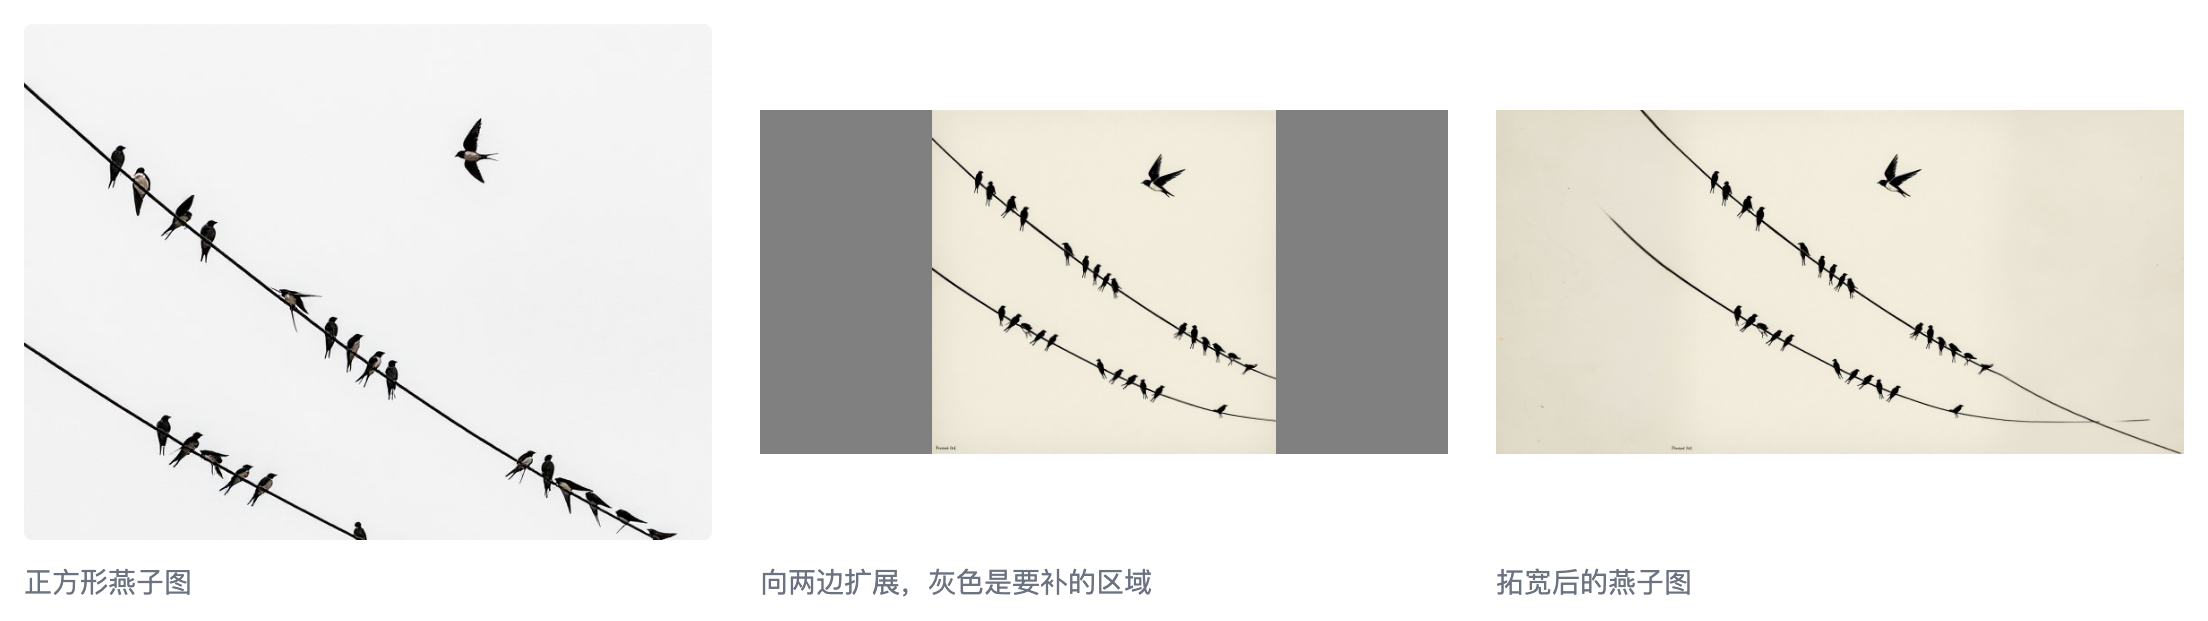
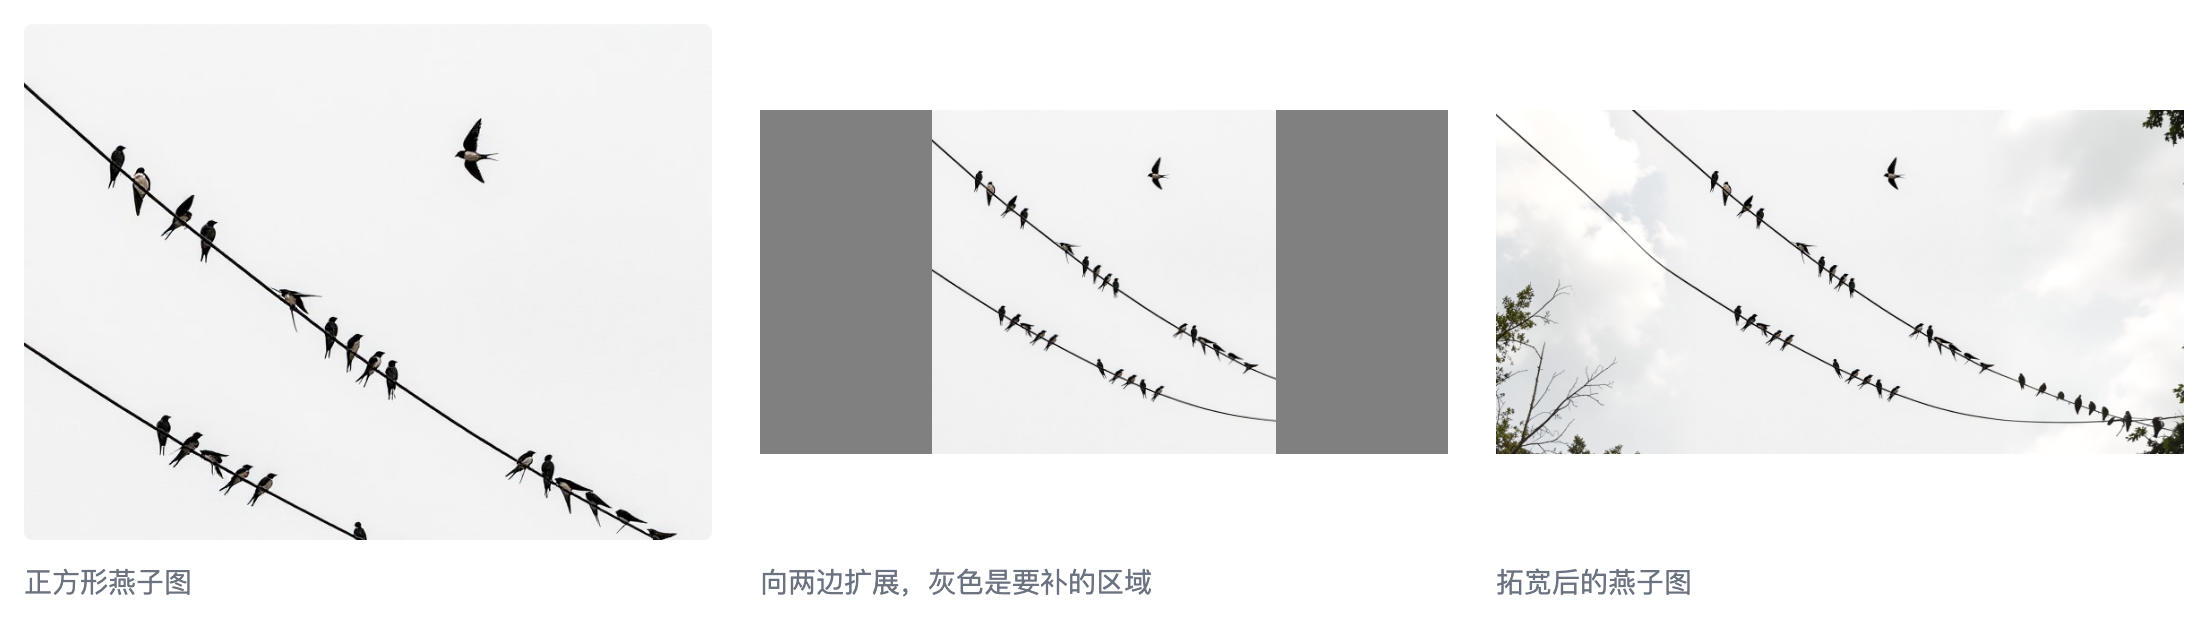
配图: 方形燕子图网格的遮罩和结果换回 outpaint-swift 那一组
上一版拿了 both-mask.png / both-out.png，那是另一次生成，画风跟左边
的原图对不上。outpaint-swift 里的 pixcmp_00013 才是这张原图的两侧
遮罩，img_00122 才是它跑出来的结果，三张现在是同一次的连续步骤。

both-mask.png / both-out.png 不再被引用，从版本库里移除。

diff --git a/articles/2026-09-26-enlarge-image-without-painting/swallow-outpaint-image-grid.source.html b/articles/2026-09-26-enlarge-image-without-painting/swallow-outpaint-image-grid.source.html
@@ -17,13 +17,13 @@
     </figure>
     <figure style="margin: 0; display: flex; flex-direction: column; gap: 10px;">
       <div style="width: 100%; aspect-ratio: 4/3; border-radius: 4px; overflow: hidden;">
-        <img src="file:///Users/husongtao/Projects/newsletters/articles/2026-09-26-enlarge-image-without-painting/both-mask.png" style="width: 100%; height: 100%; object-fit: contain; object-position: center; display: block;">
+        <img src="file:///Users/husongtao/Projects/newsletters/articles/2026-09-26-enlarge-image-without-painting/outpaint-swift/pixaroma_compare_pixcmp_mhozn_00013_.png" style="width: 100%; height: 100%; object-fit: contain; object-position: center; display: block;">
       </div>
       <figcaption style="font-size: 14px; color: #6B7280; line-height: 1.6;">向两边扩展，灰色是要补的区域</figcaption>
     </figure>
     <figure style="margin: 0; display: flex; flex-direction: column; gap: 10px;">
       <div style="width: 100%; aspect-ratio: 4/3; border-radius: 4px; overflow: hidden;">
-        <img src="file:///Users/husongtao/Projects/newsletters/articles/2026-09-26-enlarge-image-without-painting/both-out.png" style="width: 100%; height: 100%; object-fit: contain; object-position: center; display: block;">
+        <img src="file:///Users/husongtao/Projects/newsletters/articles/2026-09-26-enlarge-image-without-painting/outpaint-swift/img_00122_.png" style="width: 100%; height: 100%; object-fit: contain; object-position: center; display: block;">
       </div>
       <figcaption style="font-size: 14px; color: #6B7280; line-height: 1.6;">拓宽后的燕子图</figcaption>
     </figure>

diff --git a/articles/2026-09-26-enlarge-image-without-painting/draft.md b/articles/2026-09-26-enlarge-image-without-painting/draft.md
@@ -12,7 +12,7 @@
 
 用上 Outpaint ，模型会沿着图片的左右两边向外继续作画。正方形的图片就变成了长方形。我的电子版封面图就是这种尺寸，正好！
 
-![向两边 outpaint 的三步：768×768 方形燕子原图、左右两侧灰色待补区域、拓宽到 1536×768 后两条电线自然向外延伸](swallow-outpaint-image-grid.png)
+![向两边 outpaint 的三步：768×768 方形燕子原图、左右两侧灰色待补区域、拓宽到 1536×768 后左边补出一棵树、右边补出云和更多燕子](swallow-outpaint-image-grid.png)
 
 这里用了照片效果，是因为画面越简单，模型（Flux.2 Klein）理解得越不好，会有各种问题。
 
